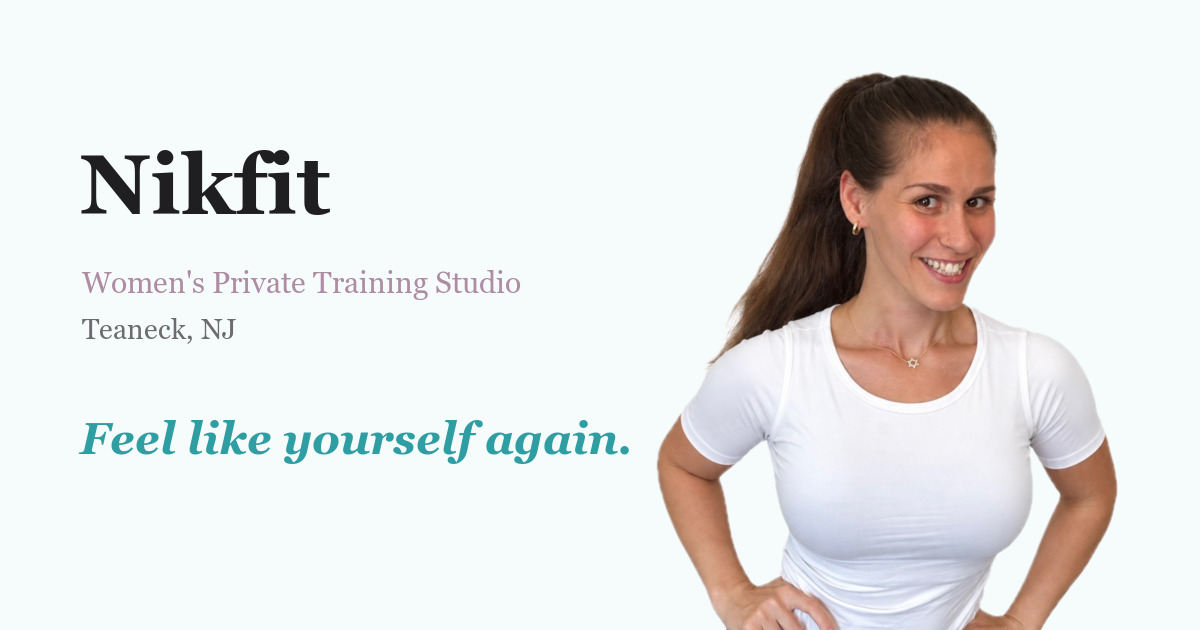
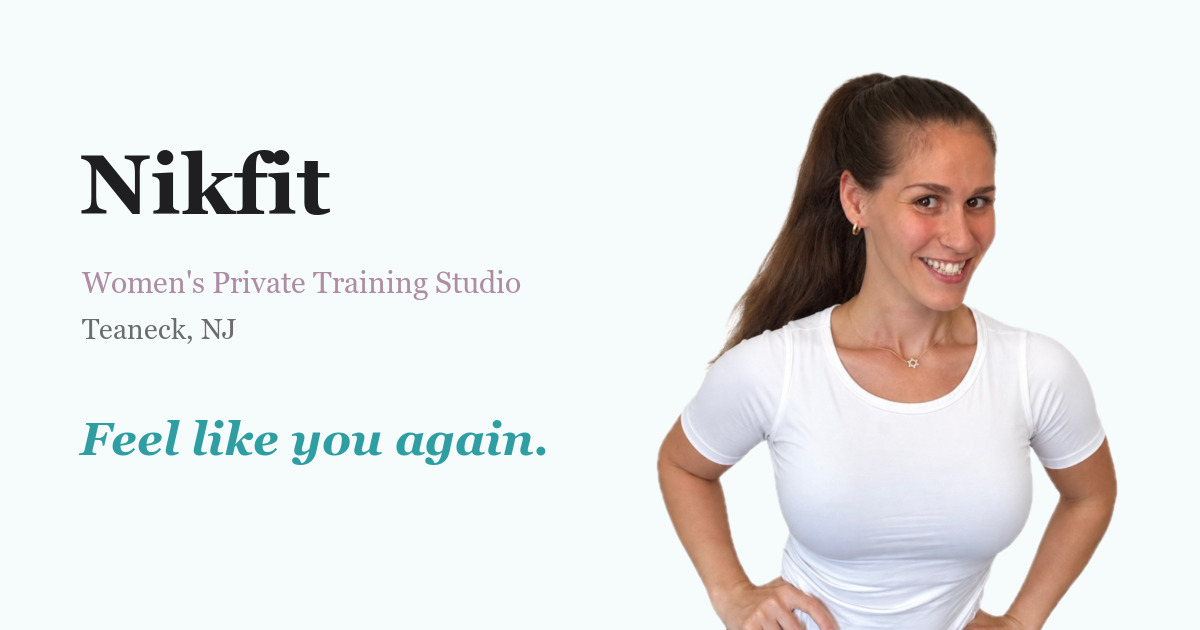
Headline: 'Feel like you again'

Changed region(s): [[0.0617, 0.6635, 0.5242, 0.754]]

diff --git a/index.html b/index.html
@@ -80,7 +80,7 @@
     <div class="container hero-2col">
       <div class="col-text">
         <div class="eyebrow">Women's Private Training Studio · Teaneck,&nbsp;NJ</div>
-        <h1 class="h1" style="margin-top:0.6rem; margin-bottom:1.1rem;">Feel like <em>yourself</em> again</h1>
+        <h1 class="h1" style="margin-top:0.6rem; margin-bottom:1.1rem;">Feel like <em>you</em> again</h1>
         <p class="lede">An intimate space to move, strengthen, and feel like yourself. One-on-one and small-group training for women, built around your body and your goals.</p>
         <div class="btns" style="margin-top:1.75rem;">
           <a href="sms:+12017052307?&body=Hi%20Nikki%21%20I%20found%20your%20website%20and%20I%27d%20love%20to%20train%20with%20you%20%F0%9F%98%8A" class="btn btn-primary btn-hero">Send me a text</a>
@@ -97,7 +97,7 @@
   <!-- HERO -->
   <section class="hero centered hero-mob" style="padding-top: 2.5rem;">
     <div class="container">
-      <h1 class="h1" style="margin-bottom: 1.75rem;">Feel like <em>yourself</em> again</h1>
+      <h1 class="h1" style="margin-bottom: 1.75rem;">Feel like <em>you</em> again</h1>
       <img src="headshot-round.png" alt="Nikki Bildner, personal trainer" class="hero-headshot">
       <div class="eyebrow">Women's Private Training Studio · Teaneck,&nbsp;NJ</div>
       <div class="btns" style="margin-top: 1.5rem;">
